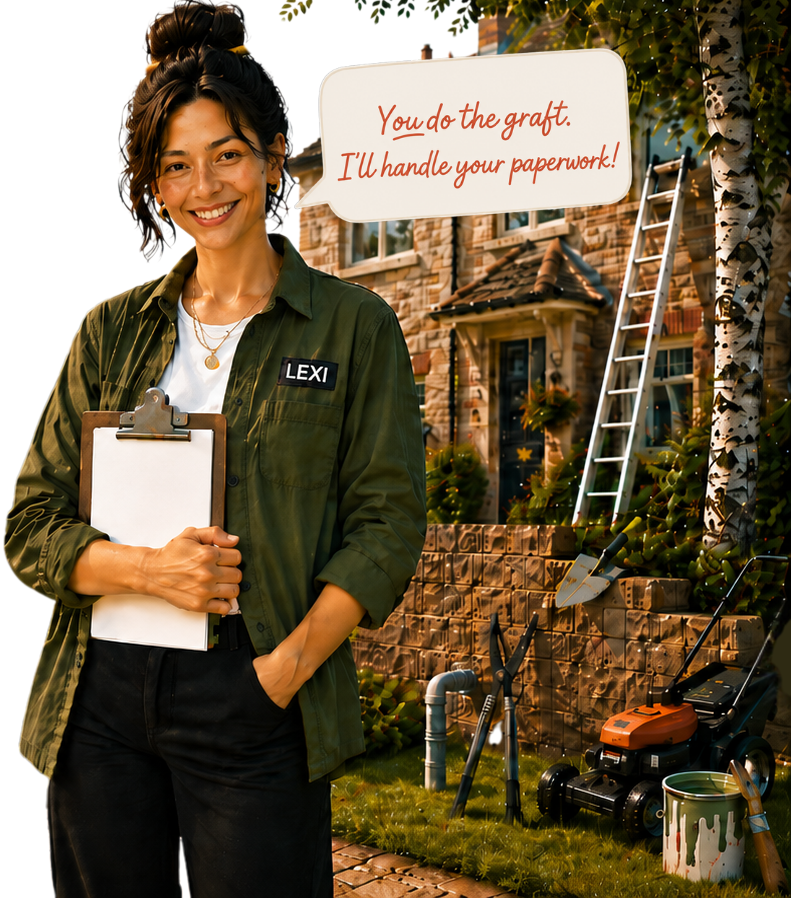
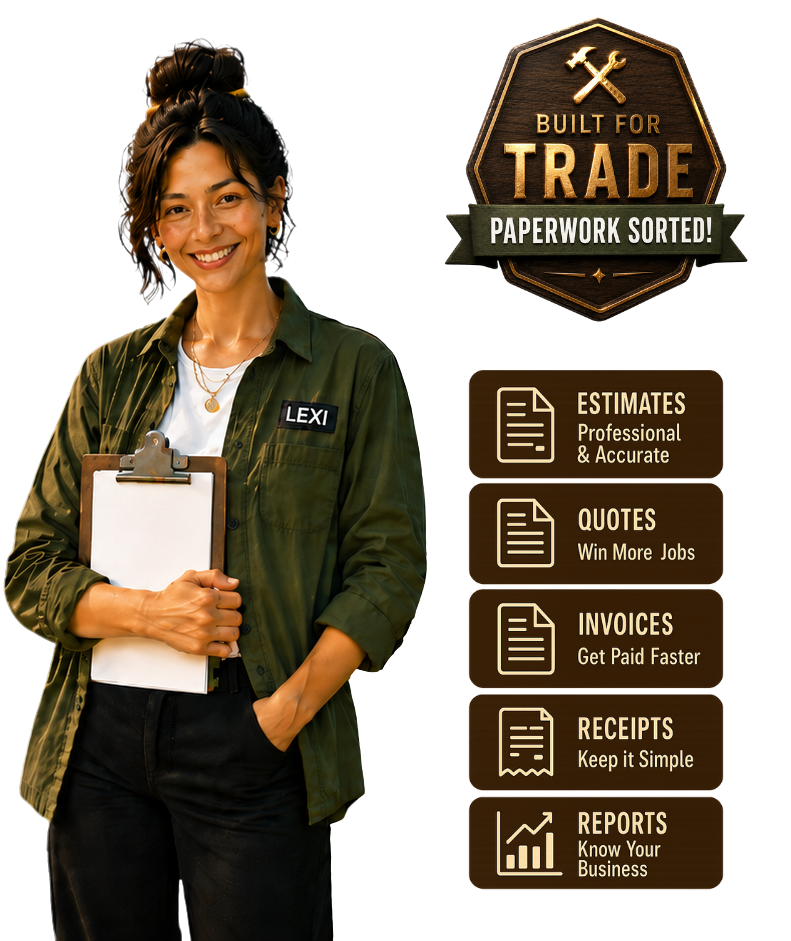
Add files via upload

diff --git a/index.html b/index.html
@@ -8,7 +8,7 @@
   <link rel="preconnect" href="https://fonts.googleapis.com">
   <link rel="preconnect" href="https://fonts.gstatic.com" crossorigin>
   <link href="https://fonts.googleapis.com/css2?family=Dancing+Script:wght@600;700&family=Cormorant+Garamond:ital,wght@0,300;0,400;0,500;0,600;0,700;1,400&family=Mulish:wght@300;400;500;600&display=swap" rel="stylesheet">
-  <link rel="stylesheet" href="style.css?v=20260603-tablet-no-white">
+  <link rel="stylesheet" href="style.css?v=20260604-step3-copy">
 </head>
 <body>
 
@@ -123,7 +123,7 @@
             <div class="step-card">
               <div class="step-num">3</div>
               <h3>Track jobs and chase payments</h3>
-              <p>See who owes what, what needs following up, and send ready-made chase messages without feeling awkward.</p>
+              <p class="step-chase-copy">See who owes what, what needs following up, and send ready-made chase messages without feeling awkward.</p>
               <div class="step-mockup-pair" aria-hidden="true">
                 <div class="step-mockup-col">
                   <img src="track-01-jobs-list.png.png" alt="See Your Jobs">

diff --git a/style.css b/style.css
@@ -2495,3 +2495,9 @@ section { padding: 64px 0; }
   background: transparent !important;
   border-radius: 0 !important;
 }
+
+/* Emphasise Step 3 chase explanation */
+.step-card .step-chase-copy {
+  font-size: clamp(1rem, 1.8vw, 1.18rem) !important;
+  line-height: 1.55 !important;
+}
